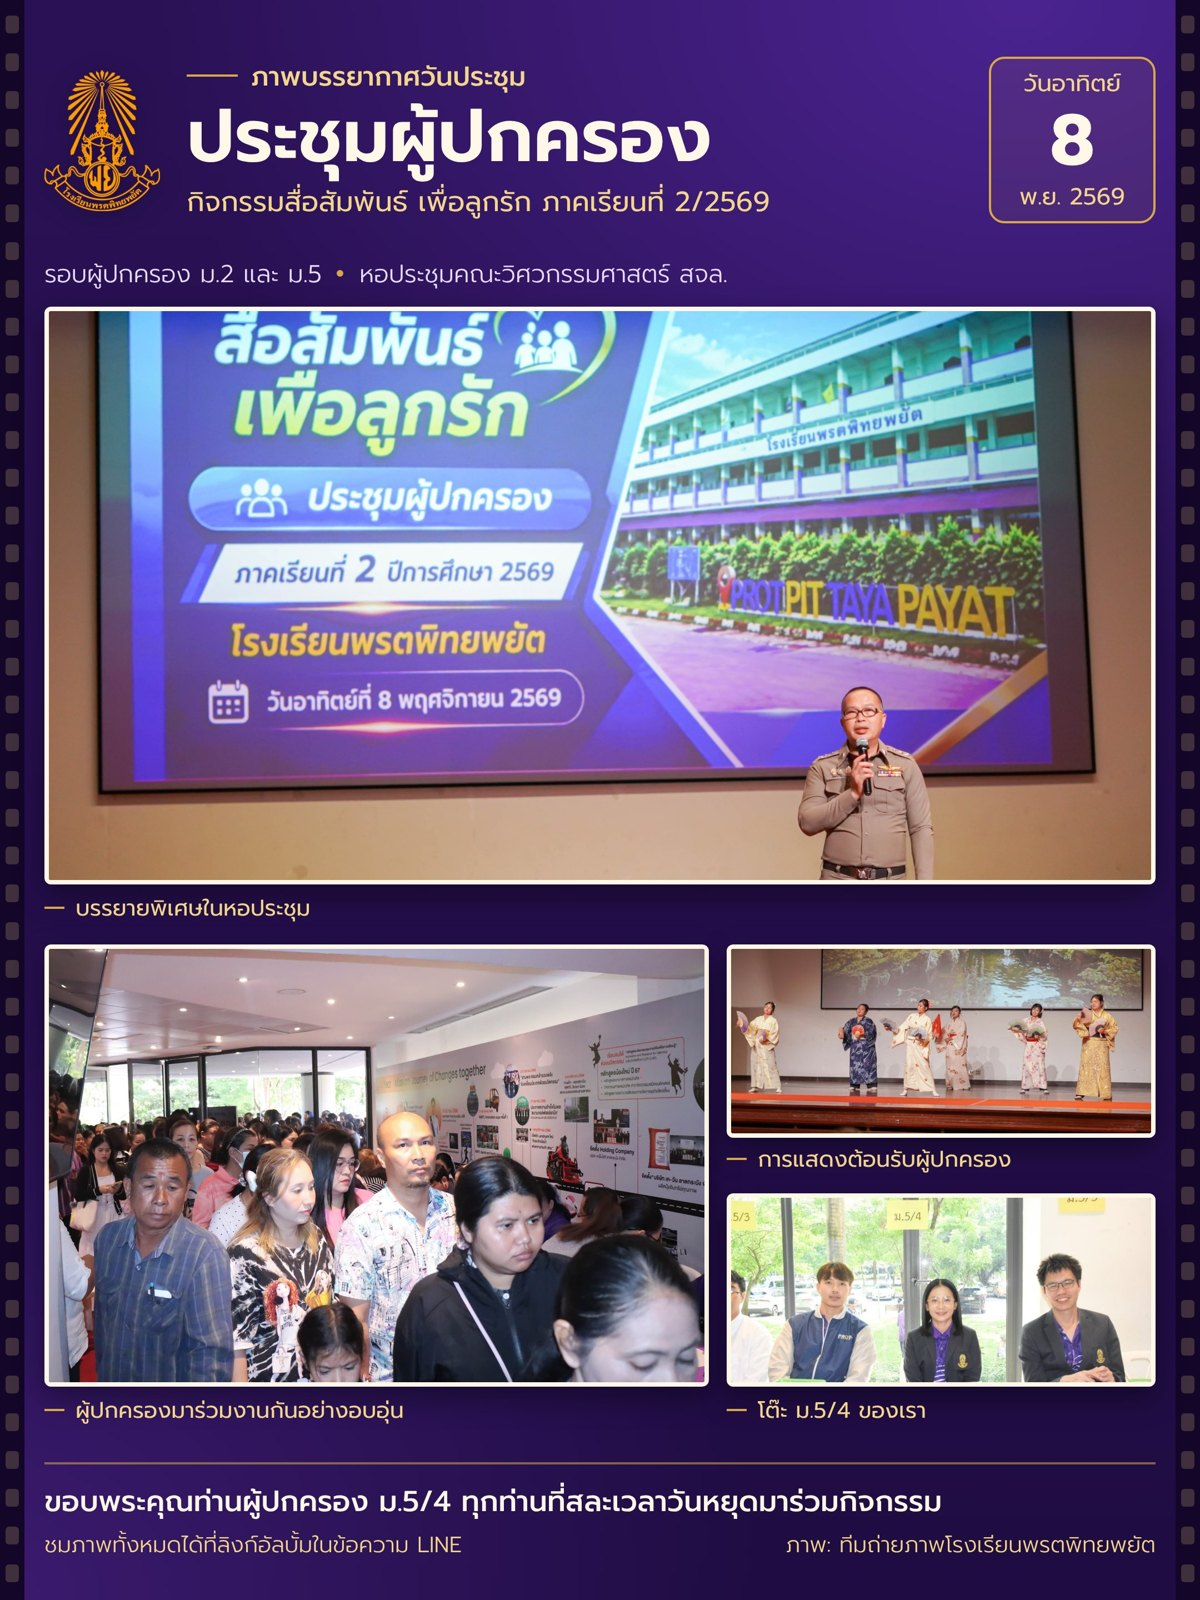
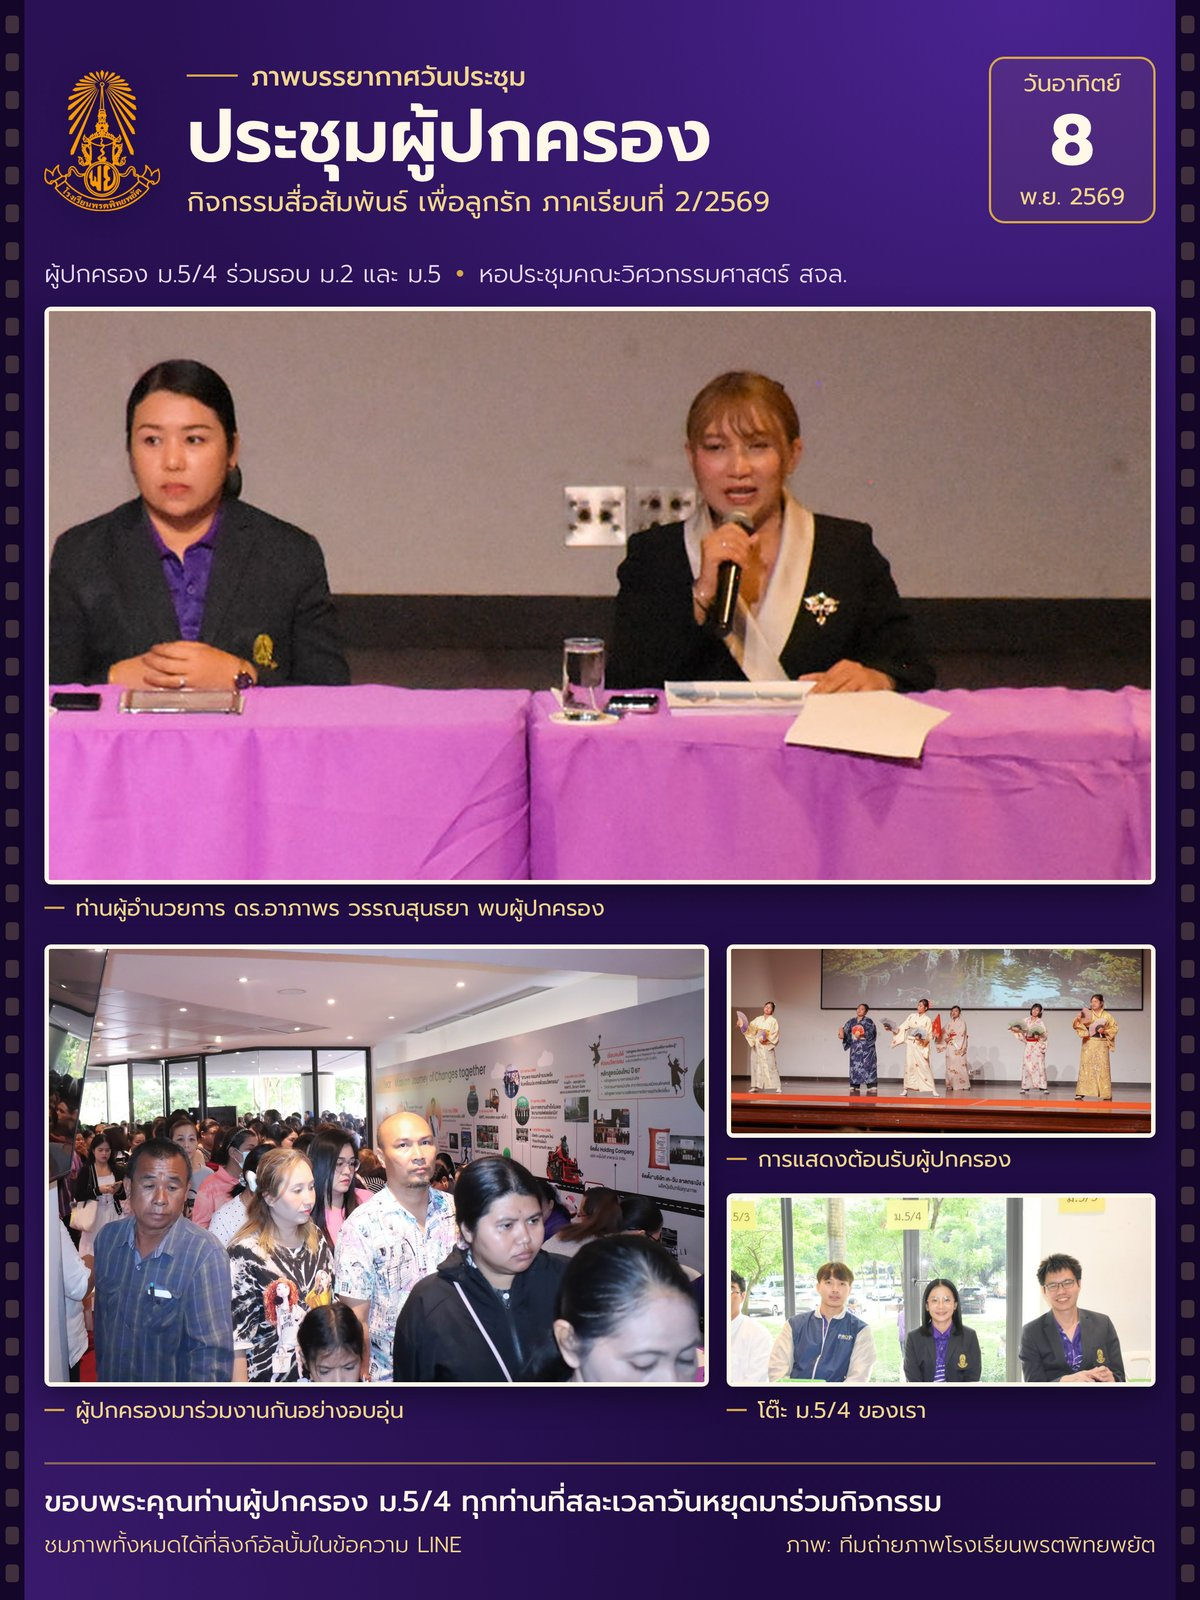
Parent meeting photos: info image now leads with the director speaking
Claude-Session: https://claude.ai/code/session_01LjaNA5DNFm72ZTzQ1jbXyK

diff --git a/data/news-2-2569.js b/data/news-2-2569.js
@@ -56,7 +56,7 @@ window.M54_NEWS.push(
   cat: "parent",
   to: ["student", "parent"],
   summary: "ทีมถ่ายภาพของโรงเรียนรวบรวมภาพวันประชุมผู้ปกครอง วันอาทิตย์ที่ 8 พฤศจิกายน 2569 ไว้ในอัลบั้มแล้ว ครูคัดภาพรอบผู้ปกครอง ม.2 และ ม.5 มา 8 ภาพ พร้อมภาพสรุป 1 ภาพ ดูภาพทั้งหมดได้ที่ลิงก์อัลบั้มของโรงเรียนด้านล่าง",
-  body: "ขอบพระคุณท่านผู้ปกครอง ม.5/4 ทุกท่านที่สละเวลาวันหยุดมาร่วมกิจกรรมสื่อสัมพันธ์ เพื่อลูกรัก ประชุมผู้ปกครอง ภาคเรียนที่ 2 ปีการศึกษา 2569 วันอาทิตย์ที่ 8 พฤศจิกายน 2569 ณ หอประชุมคณะวิศวกรรมศาสตร์ สถาบันเทคโนโลยีพระจอมเกล้าเจ้าคุณทหารลาดกระบัง\n\nภาพในข่าวนี้มาจากรอบผู้ปกครอง ม.2 และ ม.5 (ลงทะเบียน 10.00 น.)\n- การลงทะเบียน และโต๊ะของ ม.5/4\n- การแสดงต้อนรับผู้ปกครอง\n- การบรรยายพิเศษในหอประชุม\n\nภาพทั้งวันของทุกระดับชั้นอยู่ในอัลบั้มของโรงเรียน (ลิงก์ด้านล่าง) แยกโฟลเดอร์ตามกล้อง 4 ตัว ได้แก่ Canon, Nikon, Sony และ Sony A6600 ภาพรอบ ม.2 และ ม.5 มีอยู่ในทุกโฟลเดอร์\n\nท่านผู้ปกครองที่ยังไม่ได้ตอบแบบประเมินกิจกรรมของโรงเรียน ตอบได้ที่ลิงก์แบบประเมินด้านล่าง\n\nที่มา: ภาพจากทีมถ่ายภาพโรงเรียนพรตพิทยพยัต ครูสุวภัทร วงศ์พิพันธ์ แจ้งลิงก์อัลบั้มในกลุ่ม LINE ครู วันที่ 9 พฤศจิกายน 2569",
+  body: "ขอบพระคุณท่านผู้ปกครอง ม.5/4 ทุกท่านที่สละเวลาวันหยุดมาร่วมกิจกรรมสื่อสัมพันธ์ เพื่อลูกรัก ประชุมผู้ปกครอง ภาคเรียนที่ 2 ปีการศึกษา 2569 วันอาทิตย์ที่ 8 พฤศจิกายน 2569 ณ หอประชุมคณะวิศวกรรมศาสตร์ สถาบันเทคโนโลยีพระจอมเกล้าเจ้าคุณทหารลาดกระบัง\n\nภาพ 8 ภาพในข่าวนี้มาจากรอบผู้ปกครอง ม.2 และ ม.5 (ลงทะเบียน 10.00 น.)\n- การลงทะเบียน และโต๊ะของ ม.5/4\n- การแสดงต้อนรับผู้ปกครอง\n- การบรรยายพิเศษในหอประชุม\n\nภาพใหญ่ในภาพสรุปเป็นท่านผู้อำนวยการ ดร.อาภาพร วรรณสุนธยา พูดคุยกับผู้ปกครองในช่วงคณะผู้บริหารพบผู้ปกครอง\n\nภาพทั้งวันของทุกระดับชั้นอยู่ในอัลบั้มของโรงเรียน (ลิงก์ด้านล่าง) แยกโฟลเดอร์ตามกล้อง 4 ตัว ได้แก่ Canon, Nikon, Sony และ Sony A6600 ภาพรอบ ม.2 และ ม.5 มีอยู่ในทุกโฟลเดอร์\n\nท่านผู้ปกครองที่ยังไม่ได้ตอบแบบประเมินกิจกรรมของโรงเรียน ตอบได้ที่ลิงก์แบบประเมินด้านล่าง\n\nที่มา: ภาพจากทีมถ่ายภาพโรงเรียนพรตพิทยพยัต ครูสุวภัทร วงศ์พิพันธ์ แจ้งลิงก์อัลบั้มในกลุ่ม LINE ครู วันที่ 9 พฤศจิกายน 2569",
   gallery: { dir: "docs/2569/2569-11-09-parent-meeting-photos/", groups: [
     { t: "ลงทะเบียน และโต๊ะของ ม.5/4", n: 3 },
     { t: "การแสดงต้อนรับผู้ปกครอง", n: 3 },
